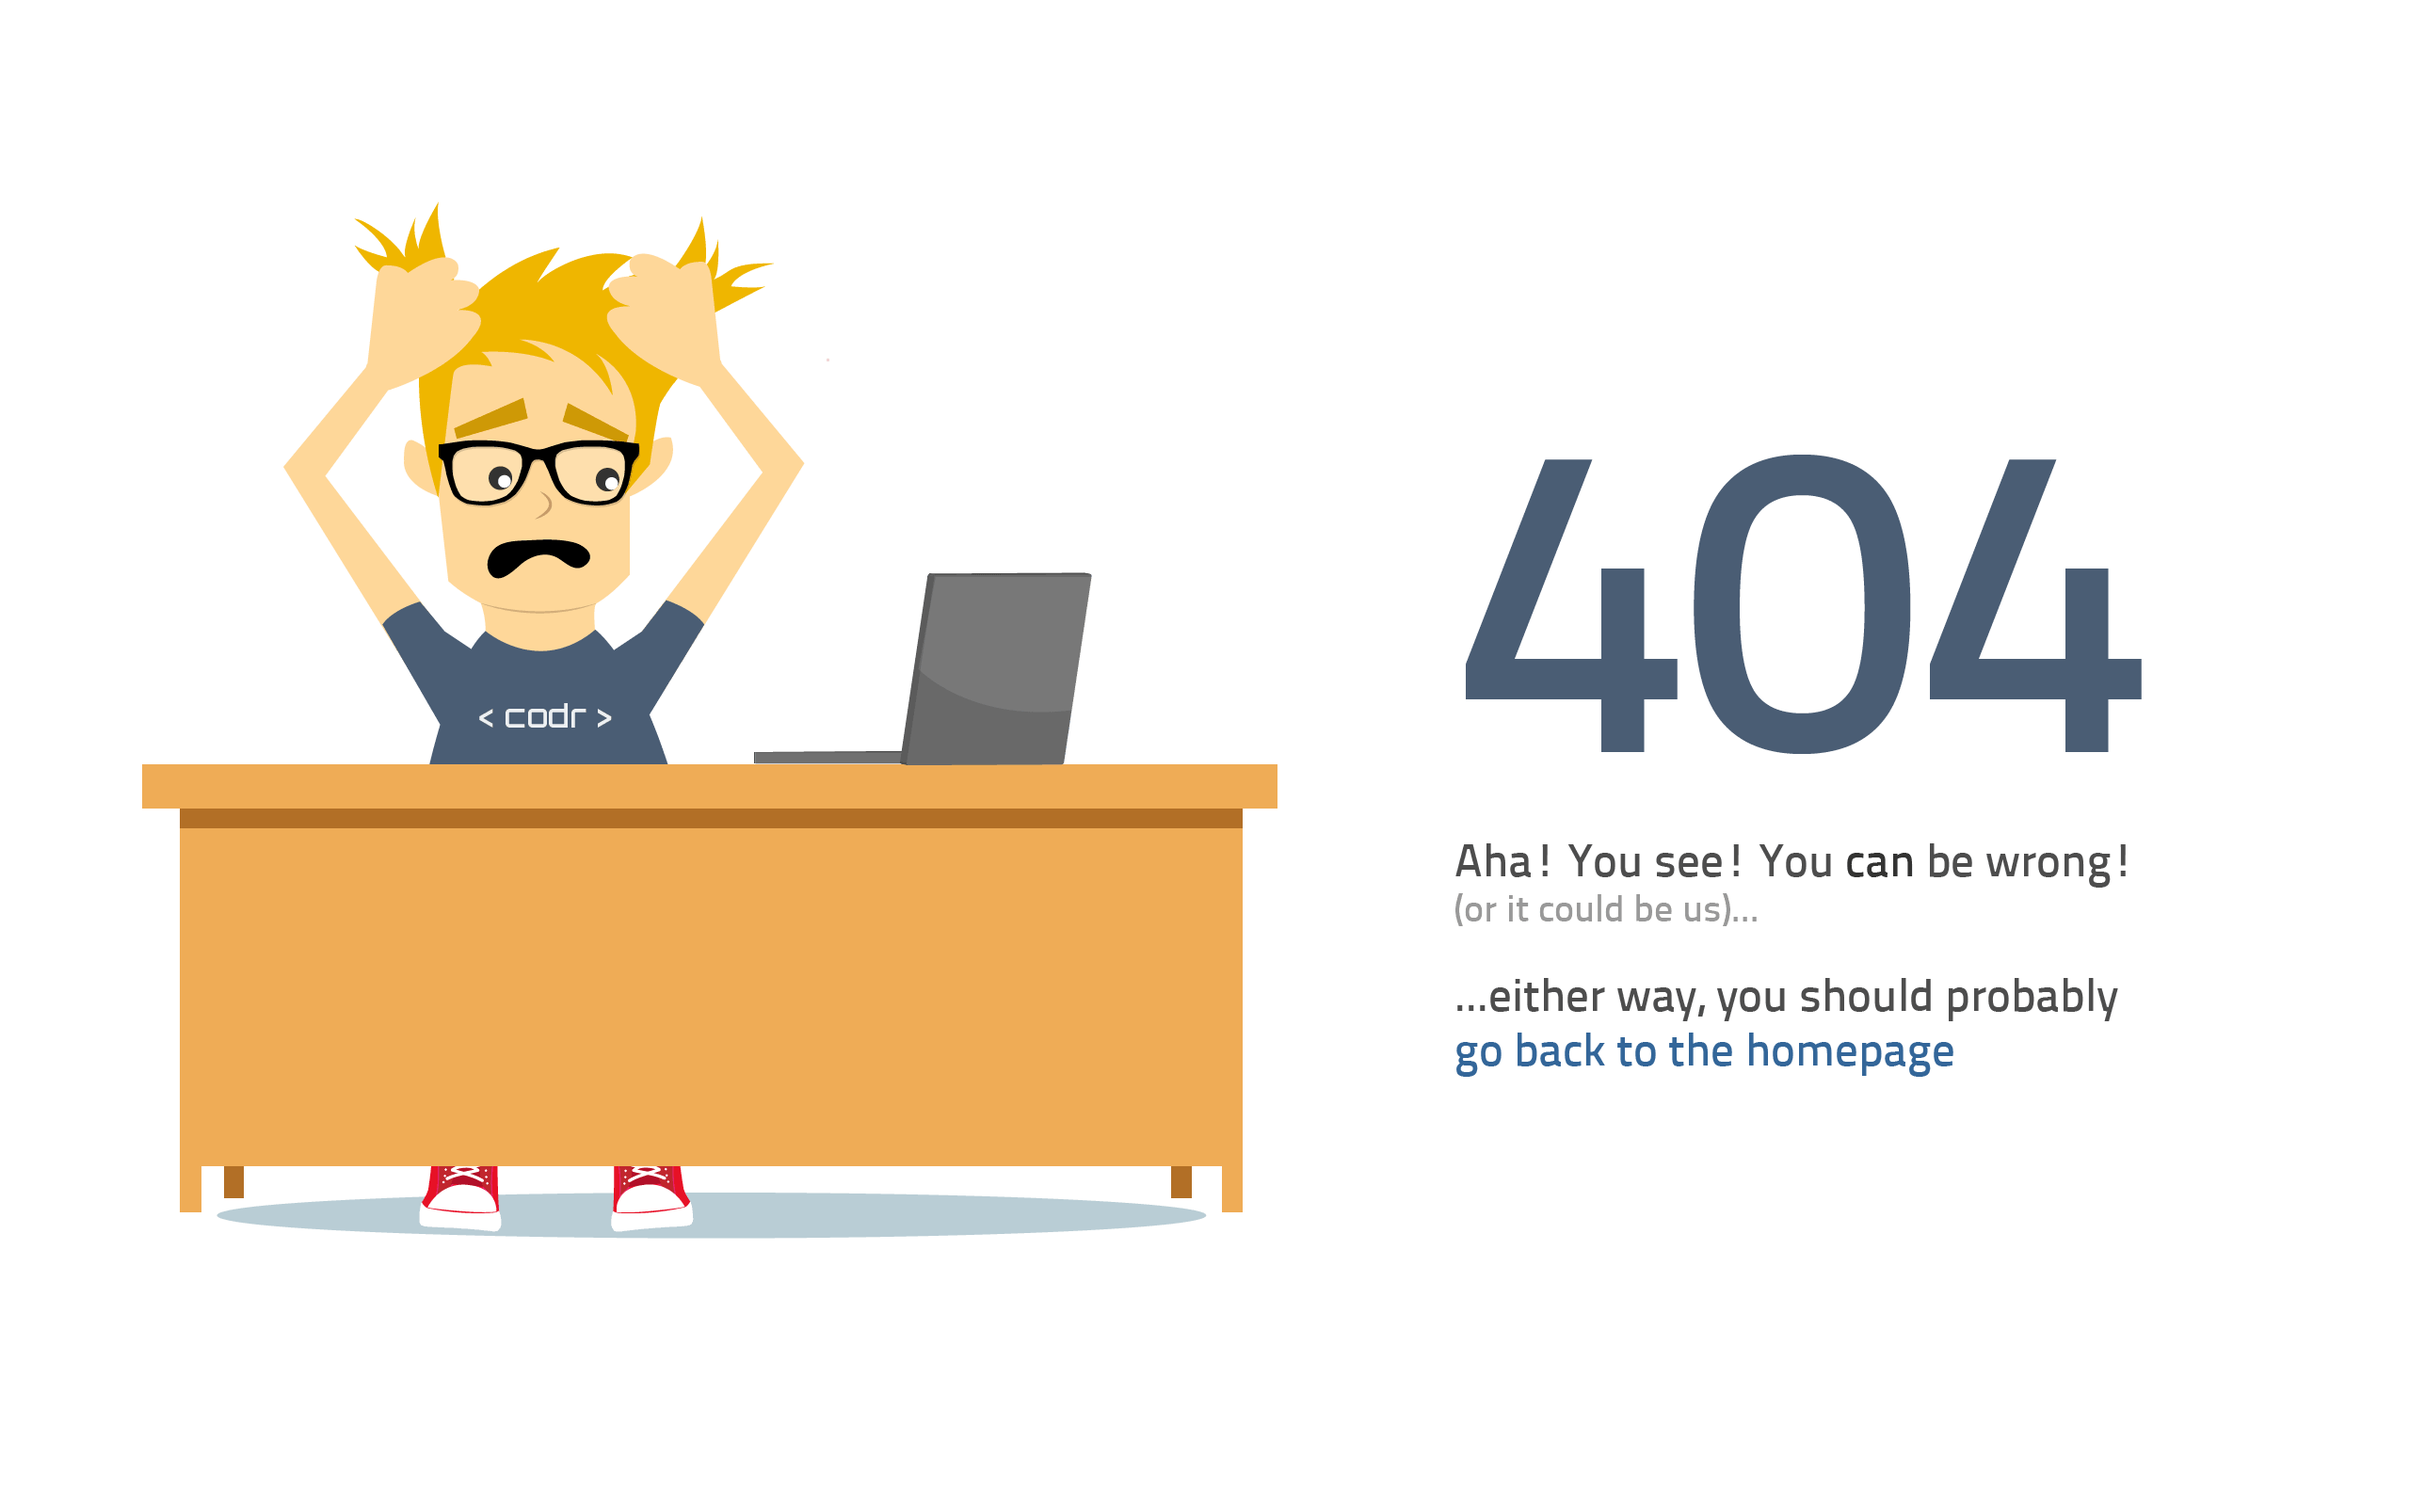
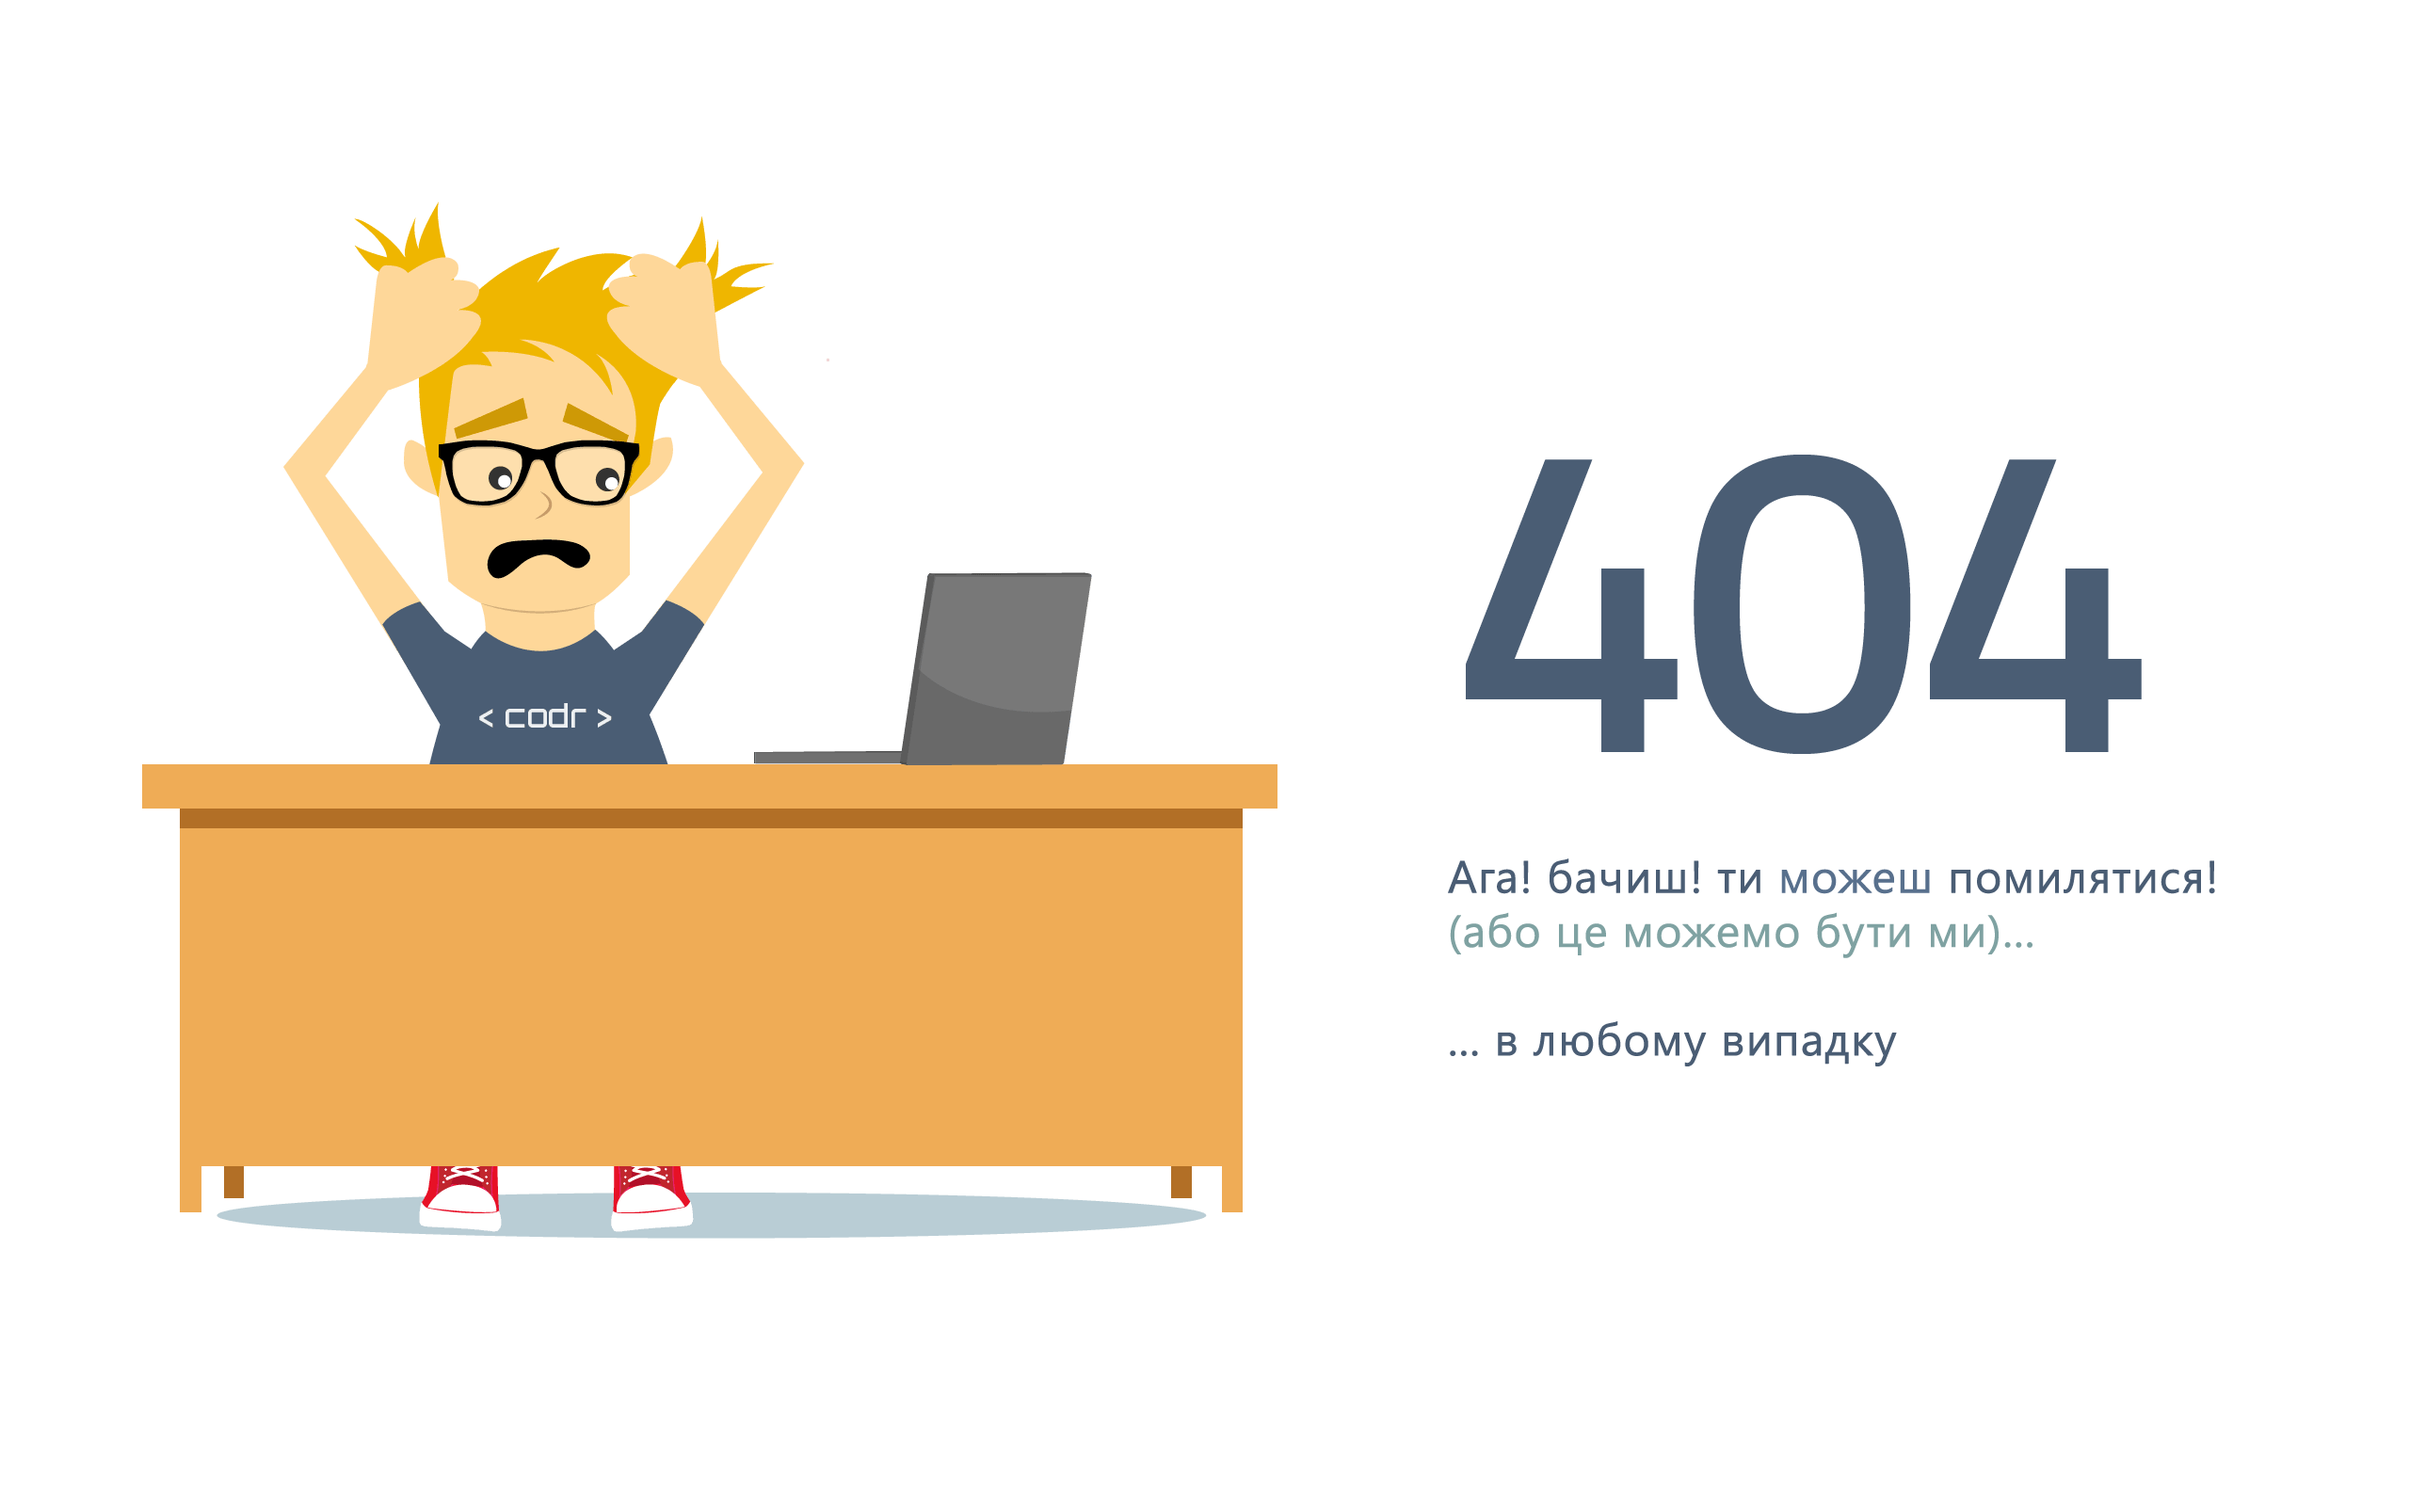
Updated error page and add link

Changed region(s): [[0.5938, 0.5625, 0.9375, 0.7188]]

diff --git a/src/main/webapp/resources/css/main.css b/src/main/webapp/resources/css/main.css
@@ -219,6 +219,6 @@ html {
 
 .error-404 {
     width: 80%;
-    height: 80%;
-    margin: 0 auto;
+    height: 95%%;
+    margin: auto;
 }
